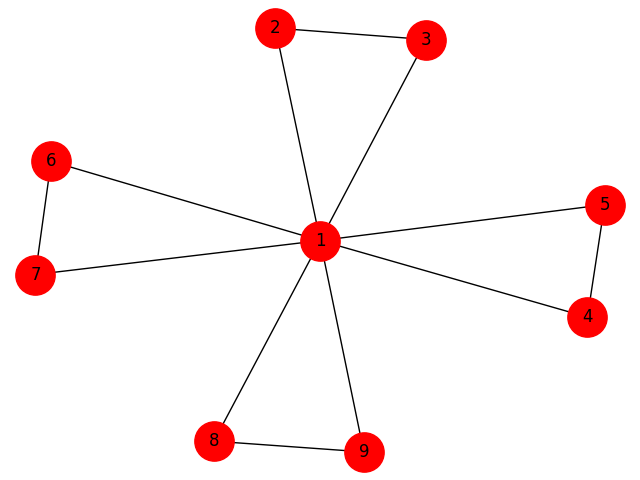
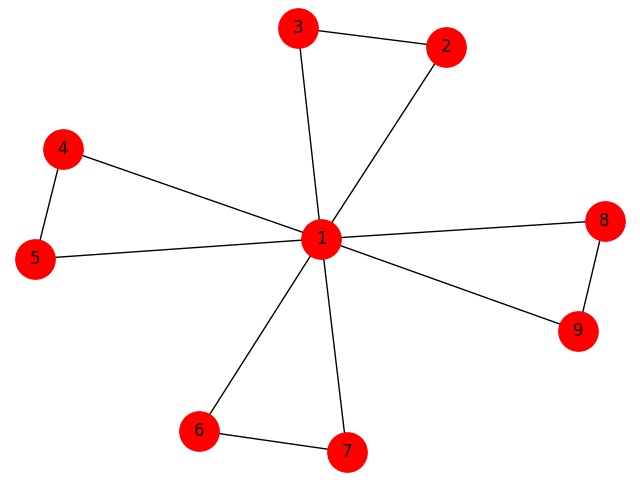
readme complexity description

diff --git a/graph.py b/graph.py
@@ -125,7 +125,7 @@ class Graph:
                 break
         return self.vertices.index(v2) # O(|V|)
 
-    def __get_next_vertex_with_unvisited_edge(self, tour): # O(|A|^2)
+    def __get_next_vertex_with_unvisited_edge(self, tour): # O(|v|*|A|^2)
         """ Procura o próxima vértice que tem uma aresta (edge) não visitada,
             dentro de uma lista incremental (tour)
         """
@@ -143,9 +143,9 @@ class Graph:
                             break
         if index < 0: # O(1)
             return index
-        return self.vertices.index(index)
+        return self.vertices.index(index) # O(|V|)
 
-    def euler_cycle(self, index  = 0): # O(|A|^2)
+    def euler_cycle(self, index  = 0): # O(|v|*|A|^2)
         """ Função para identificar circuito euleriano utilizando o método de Hierholzer
         index - posição para iniciar a pesquisa
         """
@@ -163,7 +163,7 @@ class Graph:
         while True:
 
             # da lista de vértices já percorridos, retorna o que ainda tem alguma aresta a visitar
-            currentIdx = self.__get_next_vertex_with_unvisited_edge(tour) # O(|A|^2)
+            currentIdx = self.__get_next_vertex_with_unvisited_edge(tour) # O(|v|*|A|^2)
             # se não houver, encerra a busca pois o ciclo está pronto
             if currentIdx < 0: # O(1)
                 break
@@ -171,7 +171,7 @@ class Graph:
             startIdx = currentIdx # O(1)
             subtour.append(self.vertices[currentIdx]) # O(1)
 
-            while True: # O(|A|^2)
+            while True: # O(|A|^2) * [executa para todos os vértices] O(|v|)
                 uidx = self.__get_next_vertex_index(currentIdx) # O(|A|^2)
                 subtour.append(self.vertices[uidx]) # O(1)
                 currentIdx = uidx # O(1)

diff --git a/main.py b/main.py
@@ -11,7 +11,7 @@ from graph import Graph
 from image import image
 
 G = Graph()
-G.import_file('./data/1.graph') # O(|A|)
+G.import_file('./data/3.graph') # O(|A|)
 isConnected = G.is_connected()  # O(|Vˆ2|)
 isAllPair = G.is_all_pair()  # O(|A|)
 if (isConnected and isAllPair):
@@ -21,7 +21,7 @@ print("\n---------------------------------------------------")
 print("Grafo conexo? %r" % isConnected)
 print("Cada vertice tem número par de arestas? %r" % isAllPair)
 print("Vértices %r" % G.get_vertices())
-print("Adjacenes %r" % G.get_adjacent())
+print("Adjacentes %r" % G.get_adjacent())
 print("Arestas %r" % G.get_edges())
 if (isConnected and isAllPair):
     print("Ciclo Euleriano: %r" % G.get_euler_cycle())

diff --git a/README.md b/README.md
@@ -25,57 +25,38 @@ Tem por objetivo verificar se todos os vértices estão conectados, premissa par
 
 Verifica se o vértices tem grau par, ou seja, se o número de arestas de cada vértice é par, sendo esse um requisito para identificar se o grafo possui ciclo euleriano.
 
-*Complexidade da implementação: Para cada vértice identifica o tamanho da lista de adjacências e verifica o módulo dois para identificar se é ou não par, portanto tem complexidade relativa ao número de vértices O(|v|).*
+*Complexidade da implementação: O(|v|), pois para cada vértice identifica o tamanho da lista de adjacências e verifica o módulo dois para identificar se é ou não par, portanto tem complexidade relativa ao número de vértices O(|v|).*
 
 ### euler_cycle
 
+Realiza a montagem de um ciclo euleriano a partir de um vértice inicial, um caminho que visita cada aresta uma vez, terminando no ponto de partida. A montagem do ciclo utiliza como base o algoritmo de Hierholzer, que realiza a busca em profundidade na intenção de montar subciclos e, a partir de vértices desse subciclo, monta novos subciclos e os agrega ao ciclo euleriano. Exemplificando de forma simples, um subciclo 1-2-3-4-1 cujo vértice 4 tem conexão para outros vértices 4-5-6-4 seria redefinido pela mescla desses dois subciclos, o que resultaria em um caminho euleriano 1-2-3-[4-5-6-4]-1, como se pode observar no exemplo 4.graph.
+
+*Complexidade da implementação (__get_next_vertex_with_unvisited_edge): O(|v| * |Aˆ2|). Essa implementação se utiliza da lista de vértices O(|v|) que compõem o caminho euleriano em construção e para cada vértice percorre a lista de arestas adjacentes O(|A|) para encontrar algum vértice que ainda não tenha sido visitado. Considerando que ao percorrer cada aresta da lista de arestas também realiza uma busca em todas as arestas O(|Aˆ2|), a complexidade resultante é O(|v| * |Aˆ2|).*
+
+*Complexidade da implementação (__get_next_vertex_index): O(|Aˆ2|). Retorna o próximo vértice que pode visitar a partir de um vértice dado. Para isso percorre a lista de adjacências do vértice O(|A|) e verifica se a aresta já foi visitada O(|A|)*
+
+*Complexidade da implementação (euler_cycle): # O(|v|*|A|^2). Sua complexidade é dominada assintoticamente pela complexidade da função __get_next_vertex_with_unvisited_edge().*
+
+## Considerações
+
+A implementação utiliza uma classe para realizar o controle do grafo, sendo que vértices e arestas são definidos como objetos do tipo lista encadeada. O controle de visitas dos vértices e arestas está sendo realizada por meio de um array auxiliar de valores booleanos, sendo que quando se sabe o índice do vértice/aresta a se buscar o custo é relativamente pequeno, porém em muitos casos se faz necessário realizar a busca da posição do elemento por meio da função index() ou por meio de comparações sucessivas, o que acresce significativamente a complexidade de tempo do algoritmo. Para a melhoria da presente implementação se pode sugerir a substituição das listas encadeadas por alguma estrutura que permita acessos diretos com custo reduzido, tal como um hashmap, por exemplo.
 
 
-
-## Classes Utilizadas
-
-* Class Arquivo
-
-Dentro dessa classe, encontra-se as funções responsaveis por abrir, ler e gravar em cada variavel os dados contidos no arquivo de entrada.
-
-É nela que estão localizadas os algoritmos responsáveis por chamar as funções Largura, Profundidade e Dijkstra. 
-
-* Class Grafo
-
-Nessa classe, as funções recebem os dados extraidos na Class Arquivo e calcula a Largura, Profundidade e o menor caminho. 
-
-* Class Main
-
-É a classe responsavel por fazer as validações nos arquivos de entrada e saída e por executar a lista de comandos do arquivo de entrada.
-
-* Class Interface
-
-Responsavel por carregar a interface utilizada no projeto.
-
-
-
-
-
-
-
-
-## Installation
-Make sure you have [Pipenv](https://github.com/pypa/pipenv#installation) and execute:
+## Instalação
+Necessário ter [Pipenv](https://github.com/pypa/pipenv#installation) e executar:
 ```shell
 $ pipenv install 
 ```
 
-## Usage
+## Utilização
 
 ```shell
 $ pipenv shell
 $ python main.py
 ```
 
-## Idea of the algorithm
-The basic idea of Hierholzer's algorithm is the stepwise construction of the Eulerian cycle by connecting dijunctive circles. It starts with a random node and then follows an arbitrary unvisited edge to a neighbour. This step is repeated until one returns to the starting node. This yields a first circle in the graph. If this circle covers all nodes it is an Eulerian cycle and the algorithm is finished. Otherwise, one chooses another node among the cycles' nodes with unvisited edges and constructs another circle, called subtour. By choice of edges in the construction the new circle does not contain any edge of the first circle, both are disjunct. However, both circles must intersect in at least one node by choice of the starting node of the second circle. Therefore one can represent both circles as one new circle. To do so, one iterates the nodes of the first circle and replaces the subtour's starting node by the complete node sequence of the subtour. Thus, one inegrates additional circles into the first circle. If the extended cycle does include all edges the algorithm is finished. Otherwise, we can find another cycle to include.
-
-In the case of an undirected, semi-Eulerian graph the algorithm starts with one of the two nodes with odd degree. In the directed case with the node with one additional outgoing edge. One of the subtours to be found will then not form a cycle, instead it will also be a path. When integrating this "subtour" into the circle one has to make sure that start and end node of this path also form start and end of the complete Eulerian path.
+## Ideia do algoritmo de Hierholzer
+A idéia básica do algoritmo de Hierholzer é uma construção passo-a-passo do ciclo Euleriano por meio da conexão de subciclos. O início se dá em um vértice qualquer e segue para um vértice adjacente ainda não visitado, repetindo esse procedimento até que se retorne ao nó inicial, o que produz um primeiro ciclo no grafo. Caso cubra todos as arestas, se trata do próprio ciclo Euleriano e o algoritmo pode ser finalizado, caso contrário seleciona, entre os vértices do atual ciclo, um que ainda possua uma aresta que leve para um vértice não visitado, permitindo que se monte um novo subciclo a partir do primeiro, que então são mesclados. Se o ciclo estendido incluir todas as arestas, o algoritmo estará concluído.
 
 ## Prints
 
